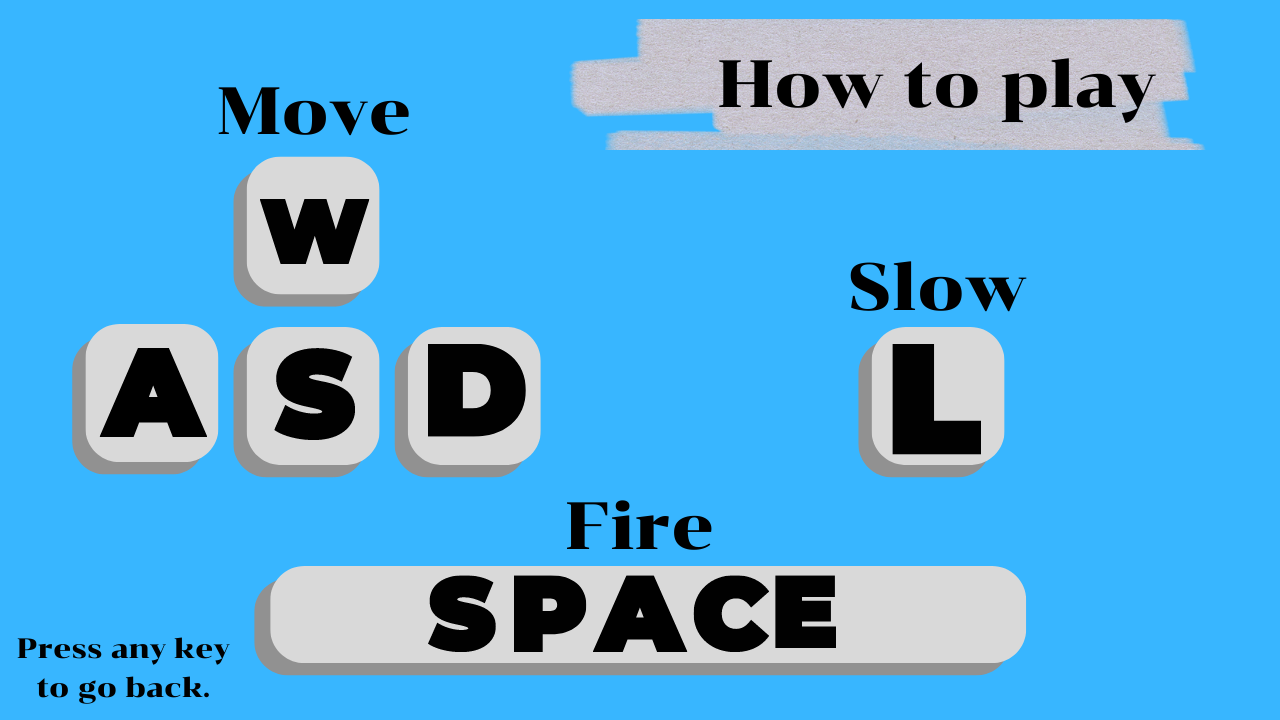
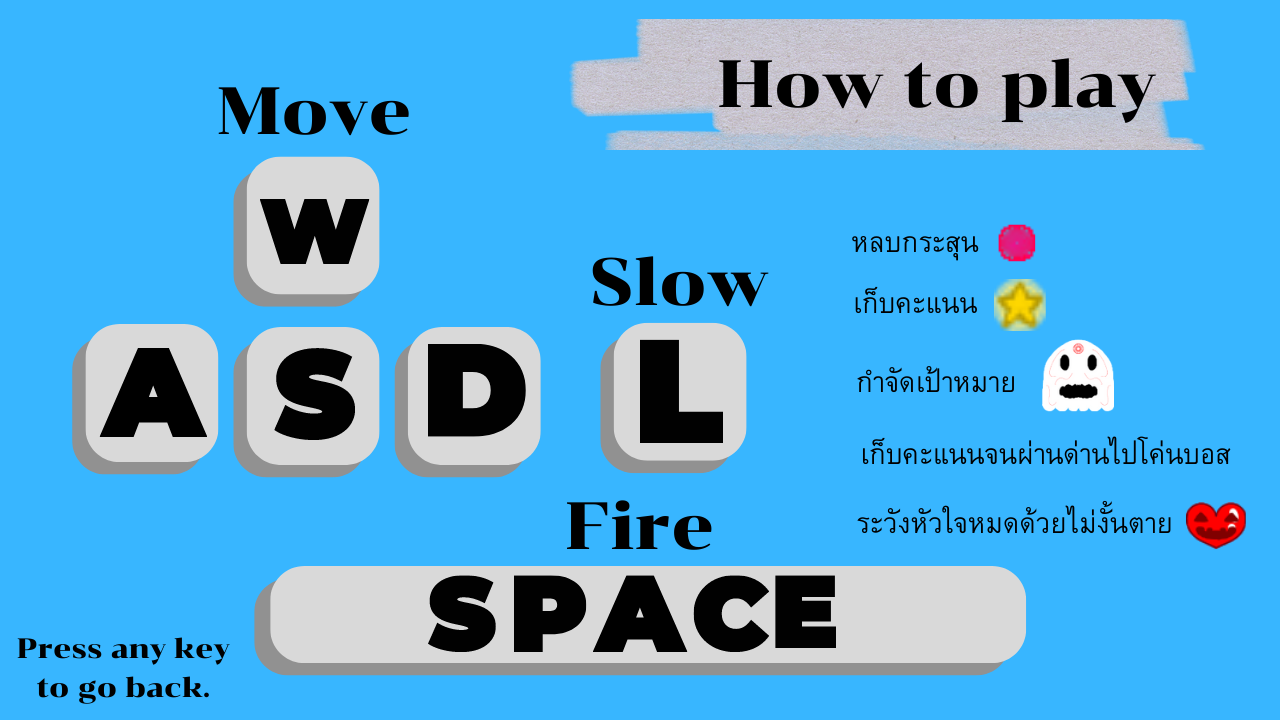
Minor Changes C220924-3-N
Music balance
New how to play screen

Changed region(s): [[0.6562, 0.3056, 0.9688, 0.6722], [0.4375, 0.3361, 0.5938, 0.6722], [0.6562, 0.6722, 1.0, 0.7639]]

diff --git a/game_module.py b/game_module.py
@@ -572,10 +572,15 @@ class resources:
 
     class sound:
         death = pygame.mixer.Sound('resource/death.mp3')
+        death.set_volume(0.1)
         star = pygame.mixer.Sound('resource/star.mp3')
+        star.set_volume(0.1)
         player = pygame.mixer.Sound('resource/player.mp3')
+        player.set_volume(0.1)
         bullet = pygame.mixer.Sound('resource/bullet.mp3')
+        bullet.set_volume(0.1)
         bossdied = pygame.mixer.Sound('resource/bossdied.mp3')
+        bossdied.set_volume(0.1)
 
     class font:
         regular = pygame.font.Font('resource/Exo-Regular.otf', 24)

diff --git a/__main__.py b/__main__.py
@@ -11,6 +11,7 @@ import time
 
 pygame.init()
 mixer.init()
+mixer.music.set_volume(0.05)
 screen.init()
 
 while True: #Always run the loop.
